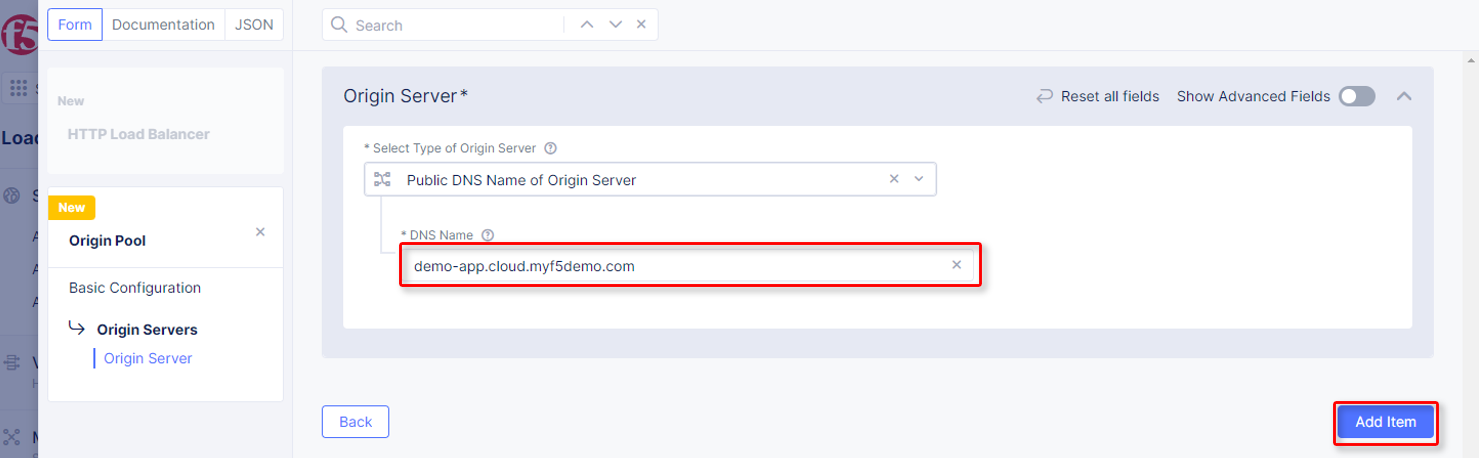
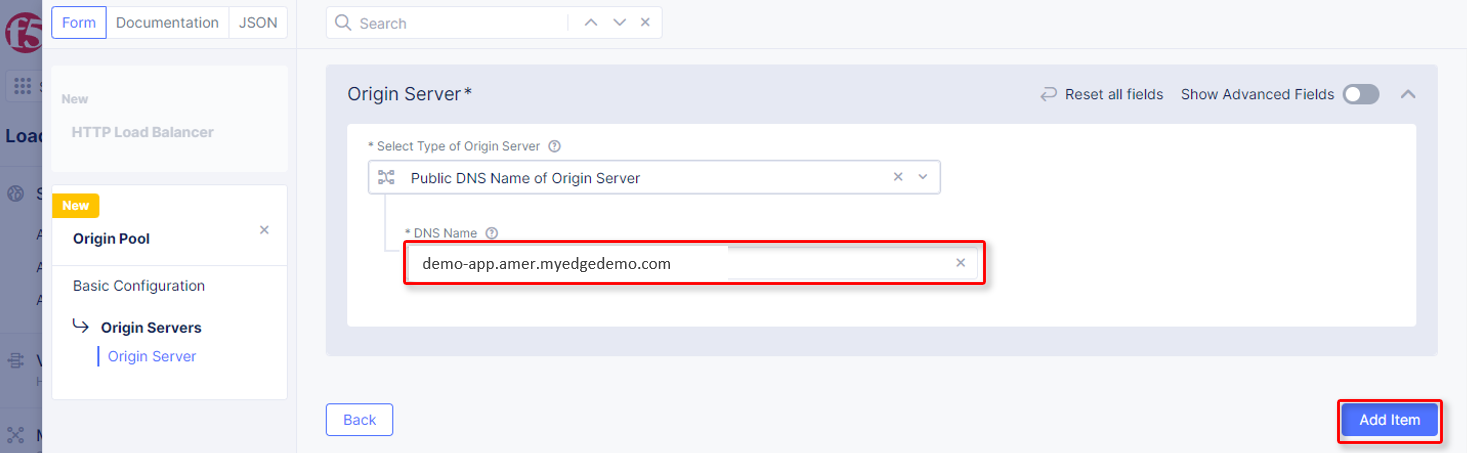
Update

diff --git a/lab1.rst b/lab1.rst
@@ -84,7 +84,7 @@ steps will define an application, register its DNS and assign a target as an ori
 |                                                                                              |
 | 8. For **DNS Name** enter the following hostname:                                            |
 |                                                                                              |
-|    **demo-app.cloud.myf5demo.com** and then click **Add Item**                               |
+|    **demo-app.amer.myedgedemo.com** and then click **Add Item**                               |
 +----------------------------------------------------------------------------------------------+
 | |lab007|                                                                                     |
 +----------------------------------------------------------------------------------------------+

diff --git a/index.rst b/index.rst
@@ -21,7 +21,7 @@ Lab Requirements:
 
 -  All Lab requirements will be noted in the tasks that follow
 
--  Estimated completion time: 20 minutes
+-  Estimated completion time: 3 Labs approximately 15-20 minutes each
 
 
 .. toctree::
